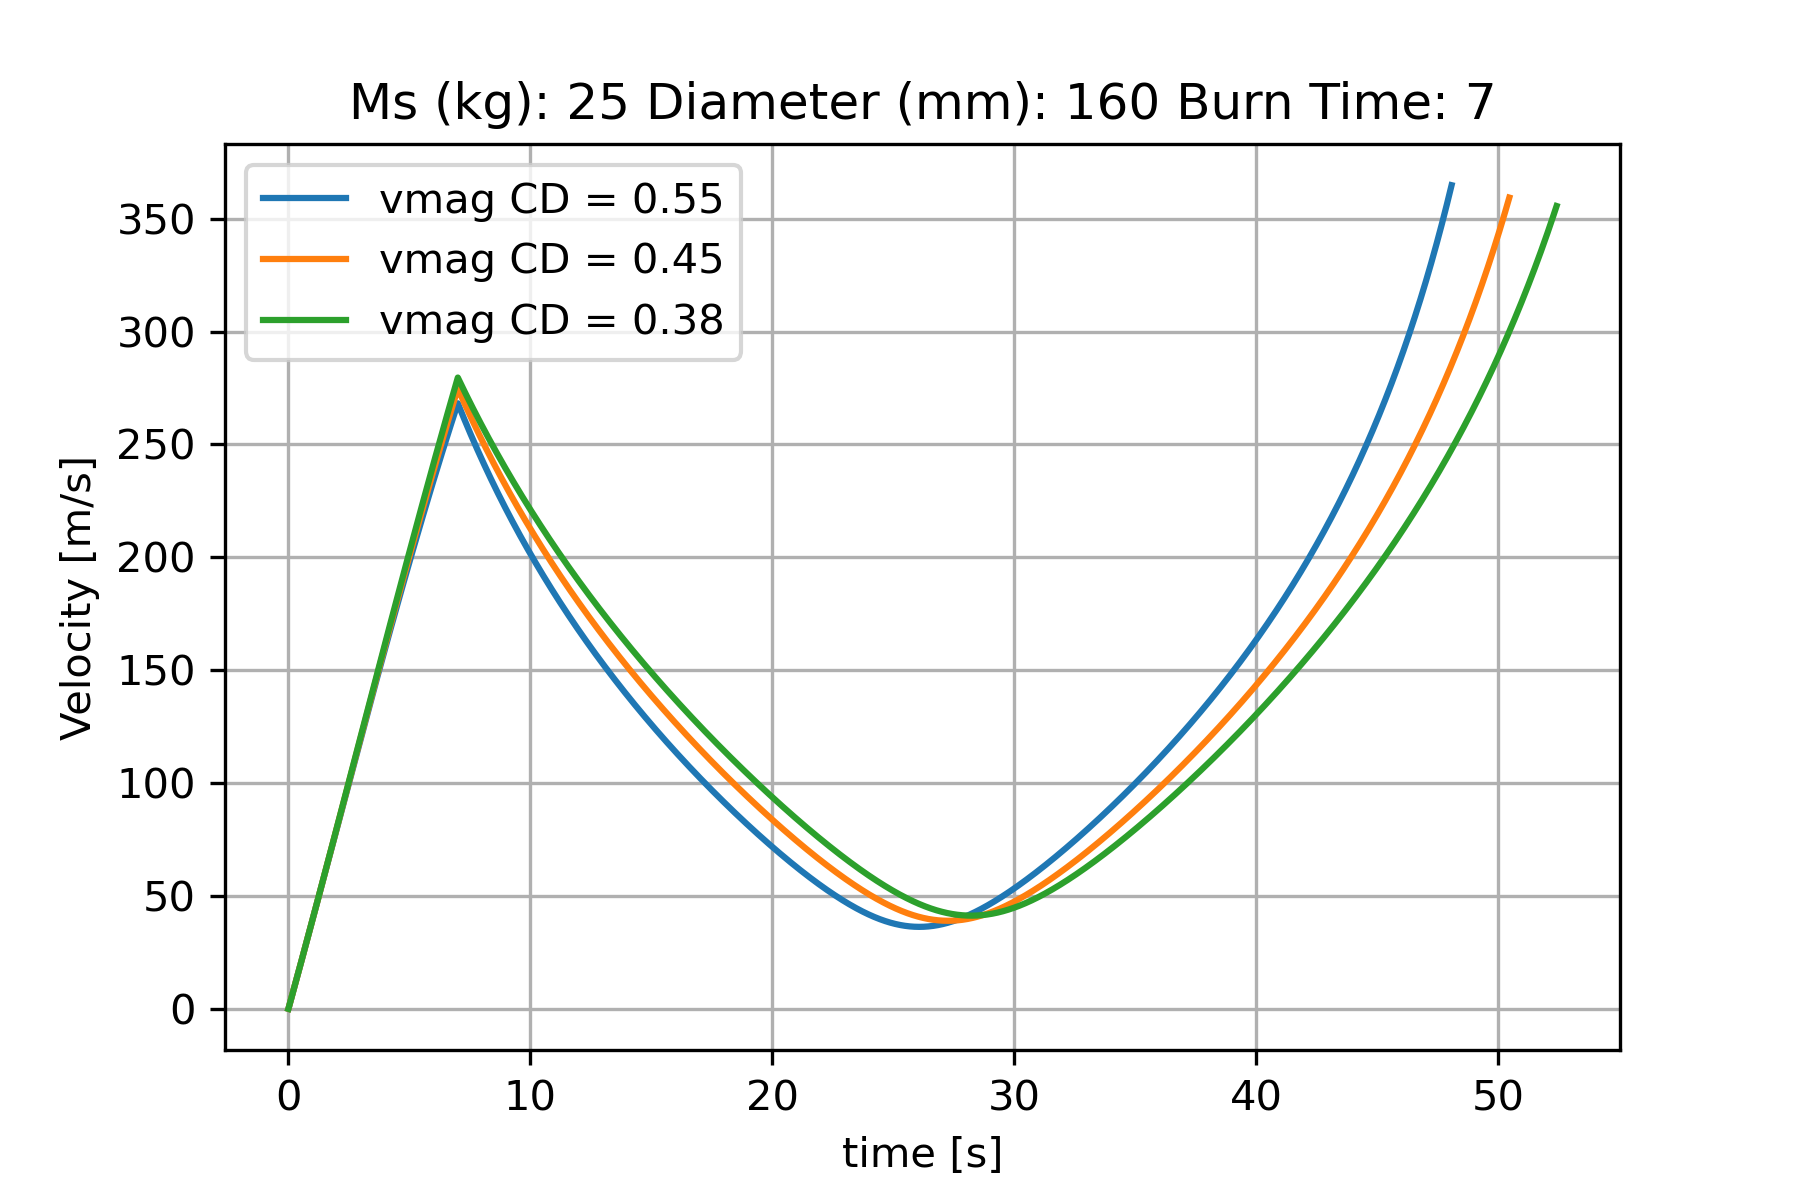
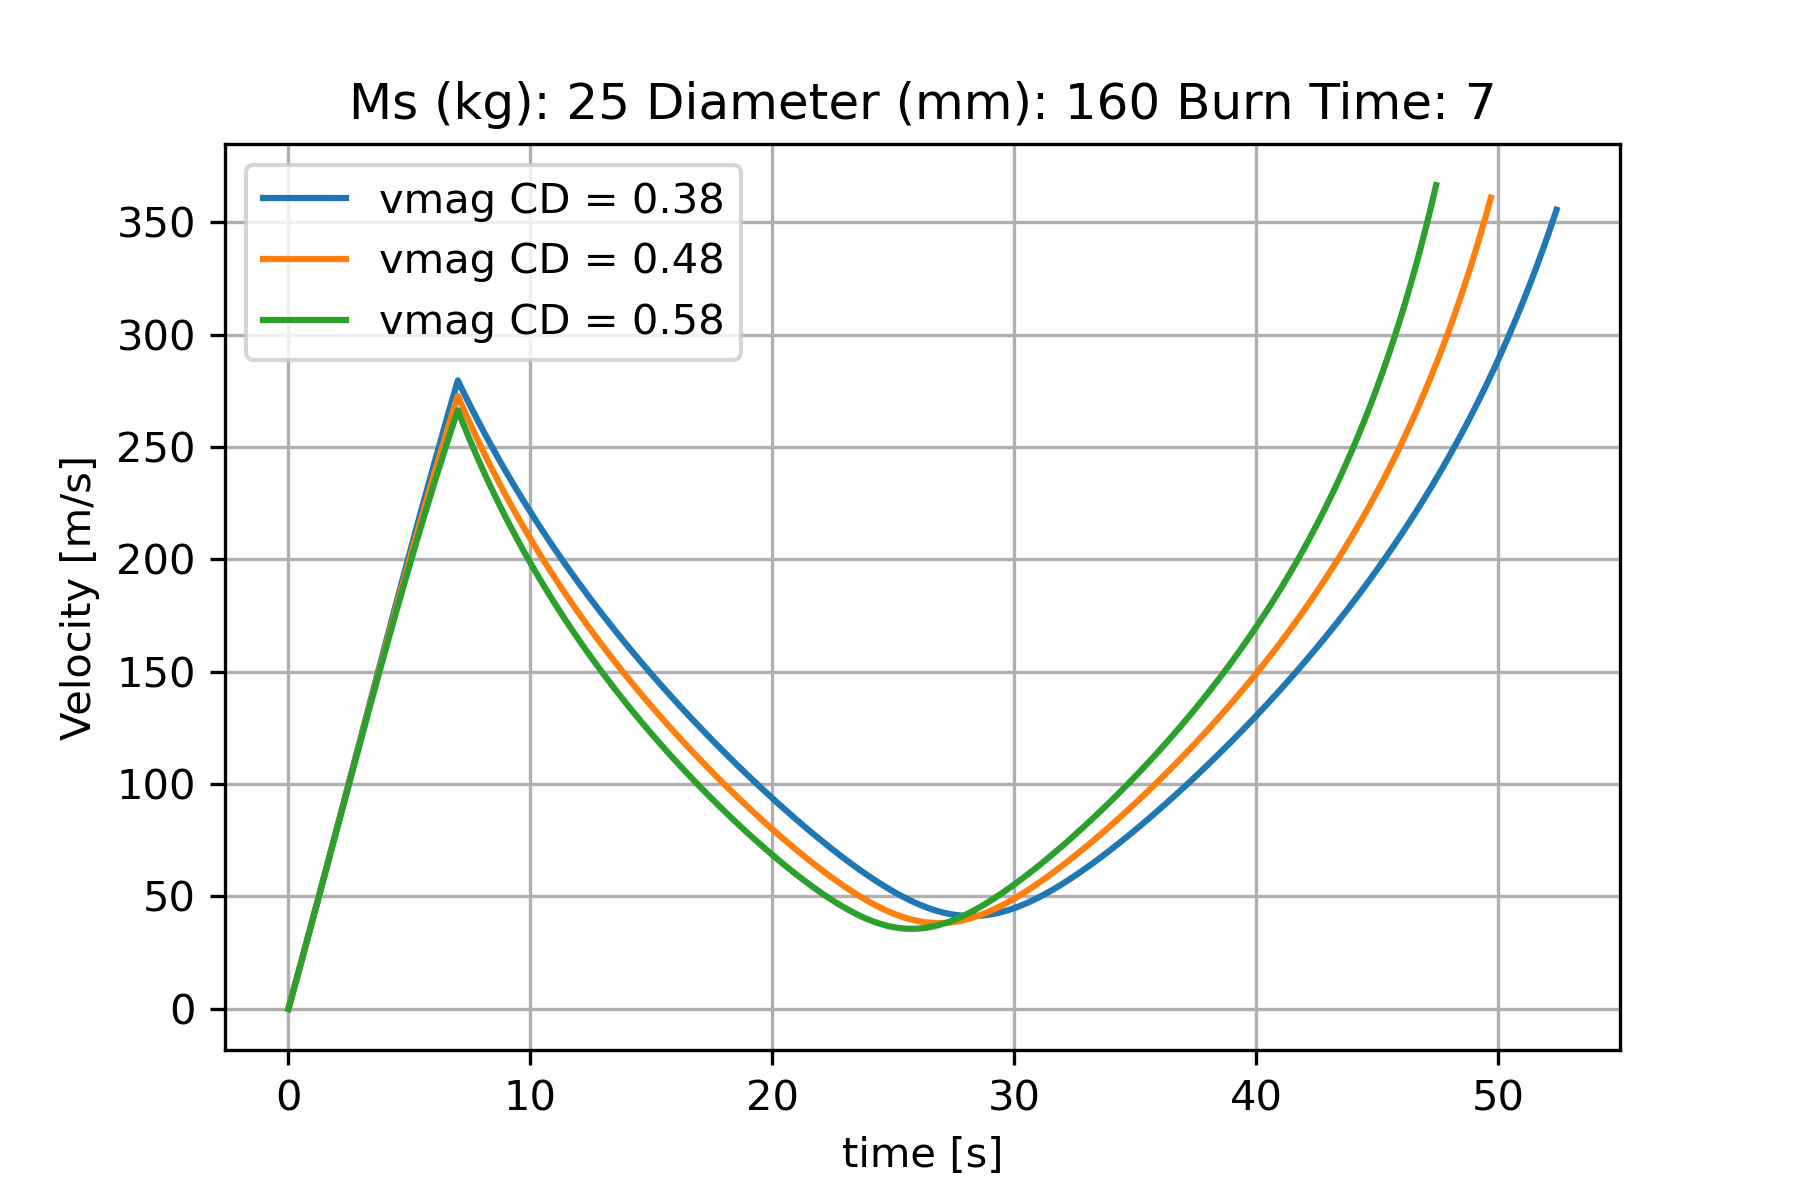
Update to CD effects

diff --git a/Trajectory/LaunchSim_CD_effect.py b/Trajectory/LaunchSim_CD_effect.py
@@ -150,13 +150,14 @@ def solver(tb, mdot, ms, Ft, s, Cd, theta0, dt):
 """Rocket Parameters"""
 thrust = 1493   #N
 mdot = 0.797    #kg/s
-ms = 20         #kg
-s = np.pi*(.075**2)
-Cd1 = 0.75
-Cd2 = 0.575
-Cd3 = 0.4
+ms = 25         #kg
+Outer_Diameter =  160 #mm (very important value to keep updated!)
+s = np.pi*((Outer_Diameter/2000)**2) 
+Cd1 = 0.38
+Cd2 = 0.48
+Cd3 = 0.58
 
-burn_time = 6.5  #s 
+burn_time = 7  #s 
 lanch_angle_deg = 84 #degrees from horizontal
 dt = 0.001 #time step, s
 
@@ -167,31 +168,34 @@ m, h1, d1, vx, vy, v1, ax, ay, Fx, Fy, rho, theta, t1= solver(burn_time, mdot, m
 m, h2, d2, vx, vy, v2, ax, ay, Fx, Fy, rho, theta, t2= solver(burn_time, mdot, ms, thrust, s, Cd2, lanch_angle_rad, dt)
 m, h3, d3, vx, vy, v3, ax, ay, Fx, Fy, rho, theta, t3= solver(burn_time, mdot, ms, thrust, s, Cd3, lanch_angle_rad, dt)
 
+
 plt.figure(1)
 plt.clf()
 
-plt.plot(t1, v1, label = "vmag CD = 0.750")
-plt.plot(t2, v2, label = "vmag CD = 0.575")
-plt.plot(t3, v3, label = "vmag CD = 0.400")
+plt.title("Ms (kg): "+str(ms)+" Diameter (mm): "+str(Outer_Diameter) +" Burn Time: "+str(burn_time))
+plt.plot(t1, v1, label = "vmag CD = "+str(Cd1))
+plt.plot(t2, v2, label = "vmag CD = "+str(Cd2))
+plt.plot(t3, v3, label = "vmag CD = "+str(Cd3))
 
 plt.grid(1)
 plt.xlabel("time [s]")
 plt.ylabel("Velocity [m/s]")
 plt.legend()
-plt.savefig('Velocity_vs_time.png', dpi=300)
+plt.savefig('Velocity_vs_time_CDs.png', dpi=300)
 
 
 plt.figure(6)
 plt.clf()
-plt.plot(d1, h1, label = "CD = 0.750")
-plt.plot(d2, h2, label = "CD = 0.575")
-plt.plot(d3, h3, label = "CD = 0.400")
+plt.title("Ms (kg): "+str(ms)+" Diameter (mm): "+str(Outer_Diameter) +" Burn Time: "+str(burn_time))
+plt.plot(d1, h1, label = "trajectory CD = "+str(Cd1))
+plt.plot(d2, h2, label = "trajectory CD = "+str(Cd2))
+plt.plot(d3, h3, label = "trajectory CD = "+str(Cd3))
 plt.grid(1)
 plt.xlabel("Horizontal Distance (x) [m]")
 plt.ylabel("Vertical Distance (y) [m]")
 plt.ylim(ymin=0) 
 plt.legend()
-plt.savefig('Height_vs_Distance.png', dpi=300)
+plt.savefig('Height_vs_Distance_CDs.png', dpi=300)
 
 
 
